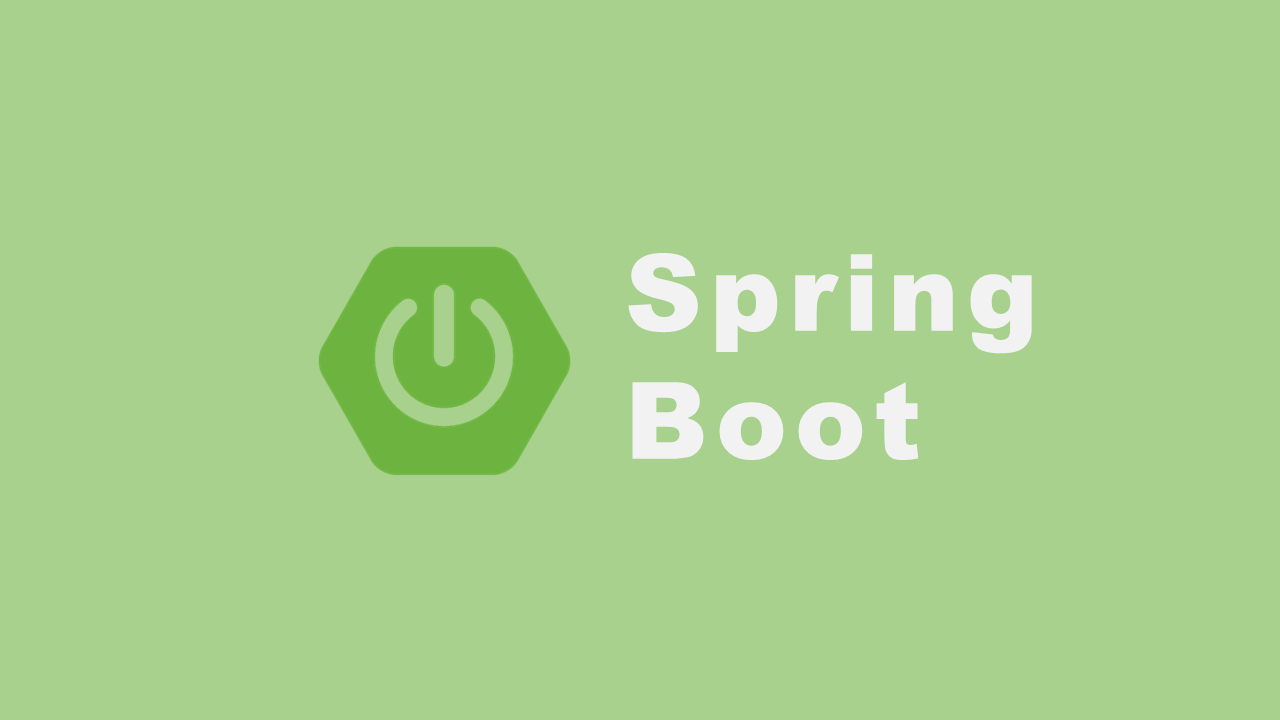
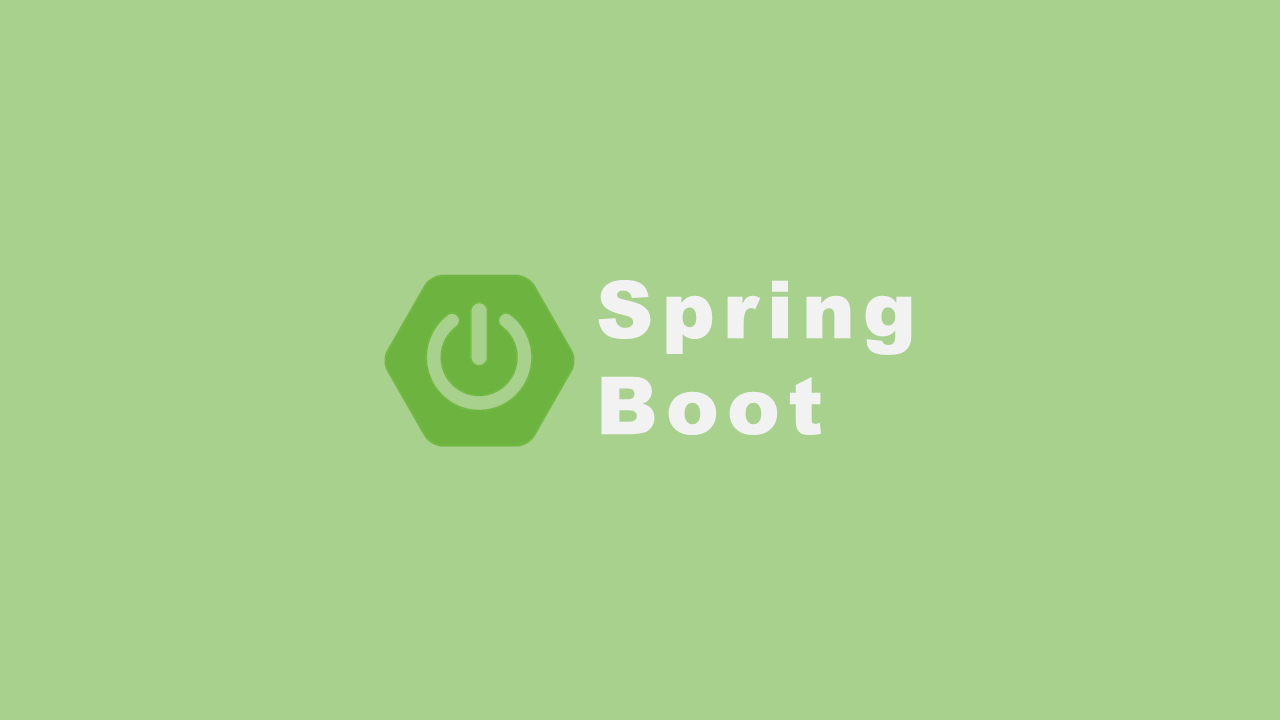
update

Changed region(s): [[0.25, 0.3361, 0.4688, 0.6722], [0.4688, 0.3361, 0.8125, 0.4889], [0.4688, 0.5194, 0.7188, 0.6417]]

diff --git a/source/_posts/spring-boot/Spring-01-스프링부트 소개.md b/source/_posts/spring-boot/Spring-01-스프링부트 소개.md
@@ -1,16 +1,13 @@
 ---
-title: JAVA - 01. 자바 시작하기
-thumbnail: https://github.com/gojaebeom/hexo-blog-server/blob/master/themes/icarus/source/images/%EC%9E%90%EB%B0%94/java-thumbnail.jpg?raw=true
-date: 2020-04-21 19:09:00
+title: Spring-boot 시작하기
+thumbnail: https://github.com/gojaebeom/hexo-blog-server/blob/master/themes/icarus/source/images/spring-boot/thumbnail.png?raw=true
+date: 2020-05-19 19:00:00
 tags: 
-- java
-- java virtual machine
-- jvm
-- 객체지향
-- 자바의 특징
+- spring
+- spring boot
 category:
 - 웹 개발
-- java
+- spring-boot
 #카탈로그 생성 및 위치
 toc: true
 widgets:
@@ -23,75 +20,10 @@ sidebar:
     sticky: true
 ---
 
-## 자바(JAVA)란 무엇인가?
-오늘부터 자바에 대해서 포스팅을 시작하겠다. 자바는 수많은 프로그래밍 언어중 하나이다. 먼저 프로그래밍 언어에 대한 정의를 하려고 한다.<!-- more -->
+## 스프링 부트(Spring Boot)
+<!-- more -->
 
-### 프로그래밍 언어
-프로그래밍 언어는 컴퓨터를 이용하여 특정 문제를 해결하기 위한 프로그램을 작성하기 위해 사용되는 언어이다. 프로그래밍 언어는 일반적으로 저급언어(기계어, 어셈블리어)와 고급 언어(컴파일 언어) 로 분류할 수 있다.
 
-**저급언어(Low Level Language)**
-- 기계어
-  - 컴퓨터가 직접 이해할 수 있는 언어
-  - 0과 1의 2진수 형태로 표현되며 수행시간이 빠르다.
-  - 기종마다 기계어가 다르므로 언어의 호환성이 없다.
-- 어셈블리어
-  - 기계어와 1:1로 대응되는 기호로 이루어진 언어로, 니모닉(Mnemonic) 언어 라고도 한다.
-  - 하드웨어 제어에 주로 사용되며, 언어의 호환성이 없다.
-  - 컴퓨터가 직접 이해할 수 없으므로 어셈블리어로 작성된 프로그램은 어셈블러를 사용하여 기계어로 번역해주어야 한다.
-
-**고급 언어(High Level Language)**
-- 인간이 실생활에서 사용하는 자연어와 비슷한 형태 및 구조를 가지고 있다.
-- 하드웨어에 대한 깊은 지식이 없어도 프로그램 작성과 수정이 용이하다.
-- 컴퓨터가 이해할 수 있는 기계어로 번역하기 위해 컴파일러나 인터프리터가 사용된다.
-- 기계어와 어셈블리어를 제외한 C, JAVA, Python등의 언어가 고급언어에 해당된다.
-
-## 자바의 탄생과 배경
-
-자바는 1991년에 썬 마이크로시스템즈(Sun Microsystems)사 에서 제임스 고슬링(James Gosling)이 고안하였고 그때 당시엔 오크(Oak), 또는 그린(Green) 이라고 불렸다.
-
-오크는 최조에 가전제품에 쓰일 목적으로 개발이 되었지만 인터넷과 웹의 출현으로 오크의 초점은 가전제춤에서 인터넷으로 옮겨지게 되었다고 한다. 이후 1995년 이름을 자바(Java)로 변경하였다. 
-
-이전에 C, C++ 등의 언어가 존재했는데, 이 언어들은 직접 메모리를 핸들링하는 특징이 있다. 개발자가 컴퓨터의 메모리를 직접 관리하니 프로그램이 비정상적으로 다운되는 일 등이 생겼다. 그래서 자바는 위와 같은 언어들의 단점을 보안하려고 만들어졌고, 타 언어들과 다르게 자체적으로 메모리를 관리해준다.
-
-_2009년 썬 마이크로시스템즈는 오라클에 인수 합병되었고 자바에 대한 권리 및 유지보수 또한 오라클로 넘어가게 되었다._
-
-## JVM(Java virtual machine)
-자바는 운영체제에 독립적이다. 이것을 가능하게 하는 것은 JVM이 운영체제 위에서 돌아가기때문이다.
-
-예를 들어 `Example.java` 파일을 작성하면 `javac Example.java` 라는 명령어를 통해 `Example.class(바이트코드)` 파일로 변환할 수 있다. class 확장자 파일은 JVM이 읽을 수 있는 파일이다. 그리고 변환된 `Example.class` 파일을 `java Example`(여기서 확장자명은 생략한다) 명령어로 실행할 수 있게 되는 것이다. 이 과정을 다음과 같이 표현할 수 있다.
-
-**자바 소스코드(Example.java) -> 자바 컴파일러 -> 바이트코드(Example.class) -> 가상머신(JVM) -> 운영체제(윈도우 or 리눅스) 에서 실행 가능**
-
-### 컴파일이란?
-프로그래밍 언어를 컴퓨터가 알 수 있는 기계어로 바꾸는 행위. 컴파일러(Compiler)는 기계어로 바꾸어주는 프로그램을 말한다.(자바를 설치하면 기본적으로 자바 컴파일러도 설치된다)
-
-## 자바의 특징
-**이식성이 높은 언어이다**
-이식성이란 서로 다른 실행 환경을 가진 시스템 간에 프로그램을 옮겨 실행할 수 있는 것을 말한다. 자바 언어로 개발된 프로그램은 소스 파일을 수정하지 않아도, 자바 실행 환경(JRE)이 설치되어 있는 모든 운영 체제에서 실행 가능하다.
-
-**객체 지향 언어이다**
-객체 지향 프로그래밍(Object Oriented Programming, OOP)이란 프로그램을 개발하는 방법론중 하나이다. 말 그대로 객체를 만들어 상호작용하는 방식으로 프로그래밍을 한다. 또한 객체 지향 언어가 가져야 할 캡슐화, 상속, 다형성 기능을 완벽하게 지원한다.
-
-**메모리를 자동으로 관리한다**
-위의 자바의 탄생과 배경에서 설명했듯이 C 또는 C++이 메모리 관리를 위해 개발자가 직접 코드를 작성해야 하는 반면, 자바는 개발자가 메모리에 직접 접근할 수 없으며 자바가 직접 메모리를 관리한다.
- 
-**멀티스레드를 쉽게 구현할 수 있다**
-자바는 스레드 생성 및 제어와 관련된 라이브러리 API를 제공하고 있기 때문에 실행되는 운영체제에 상관없이 멀티 스레드를 쉽게 구현할 수 있다.
-
-**함수 지향적인 코딩을 지원한다**
-함수적 프로그래밍은 대용량의 데이터 병렬 처리와 이벤트 지향 프로그래밍을 위해 적합하기 때문에 최근 들어 다시 주목받고 있다. 자바는 이 함수적 프로그래밍을 위해 람다식을 자바 8부터 지원한다. 람다식을 사용하면 컬렉션 요소를 필터링, 매핑, 집계 처리하는게 쉬워지고, 코드가 매우 간결해진다는 장점이 있다.
-
-**동적 로딩(Dynamic Loading)을 지원한다**
-애플리케이션이 실행될 때 모든 객체가 생성되지 않고, 각 객체가 필요한 시점에 클래스를 동적 로딩해서 생성한다. 또한 유지보수 시 해당 클래스만 수정하면 되기 때문에 전체 애플리케이션을 다시 컴파일할 필요가 없다. 따라서 유지보수가 쉽고 빠르다.
-
-**오픈소스 라이브러리가 풍부하다**
-자바는 오픈소스 언어이기 때문에 자바 프로그램에서 사용하는 라이브러리 또한 오픈소스가 많다. 오픈소스 라이브러리를 사용하면 개발 시간을 단축하면서 안정성이 높은 애플리케이션을 쉽게 개발할 수 있다.
-
-**C나 C++에 비해 속도가 느리다**
- 자바는 한 번의 컴파일링으로 실행 가능한 기계어가 만들어지지 않고 JVM에 의해 기계어로 번역되고 실행하는 과정을 거치기 때문에 C나 C++의 컴파일 단계에서 만들어지는 완전한 기계어보다는 속도가 느리다. 그러나 바이트 코드를 기계어로 변환해주는 JIT 컴파일러 같은 기술 적용으로 JVM의 기능이 향상되어 속도의 격차가 많이 줄어들었다.
-
-**예외처리가 불편하다**
-자바는 다른 언어들과 달리 프로그램 실행 시 발생할 수 있는 예외(Exception)들을 개발자가 직접 선언하여 처리해야 한다. 그렇지 않으면 아예 컴파일이 되지 않는다.
 
 
 
